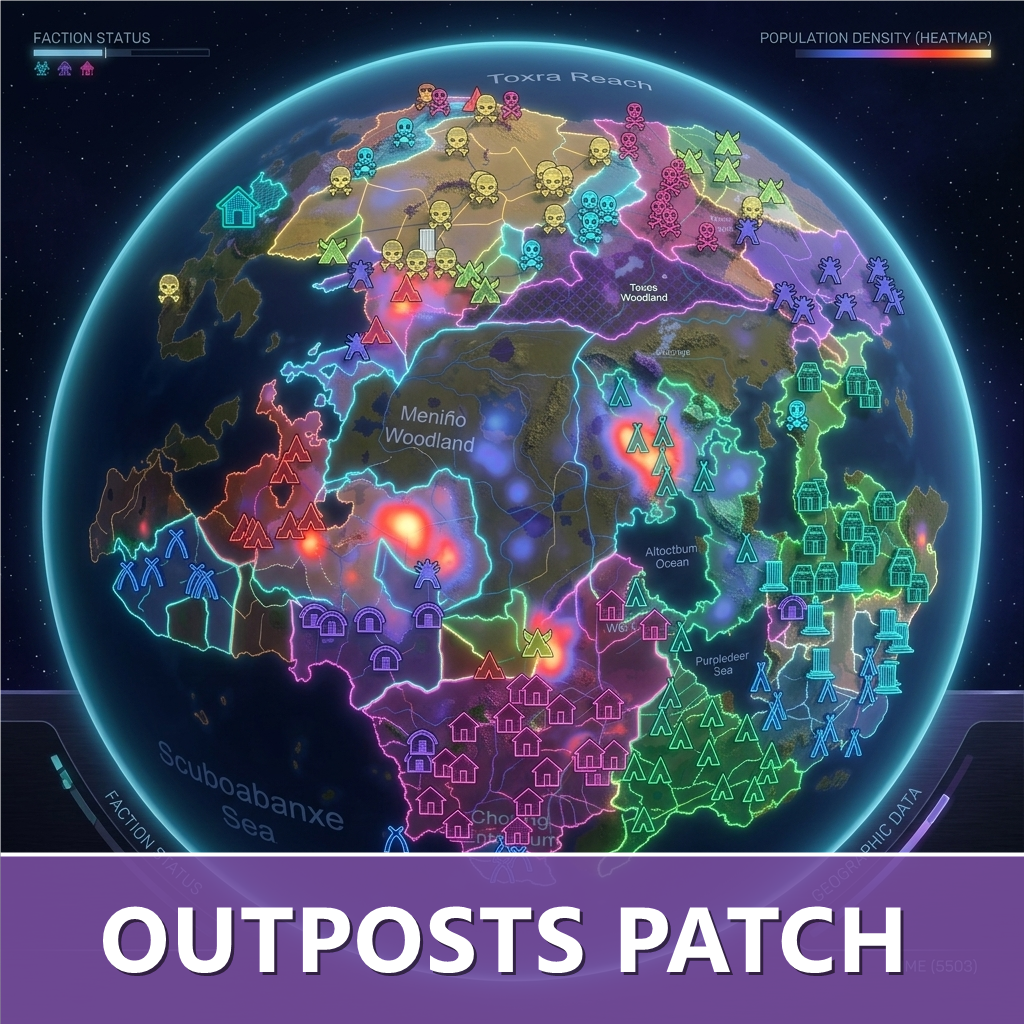
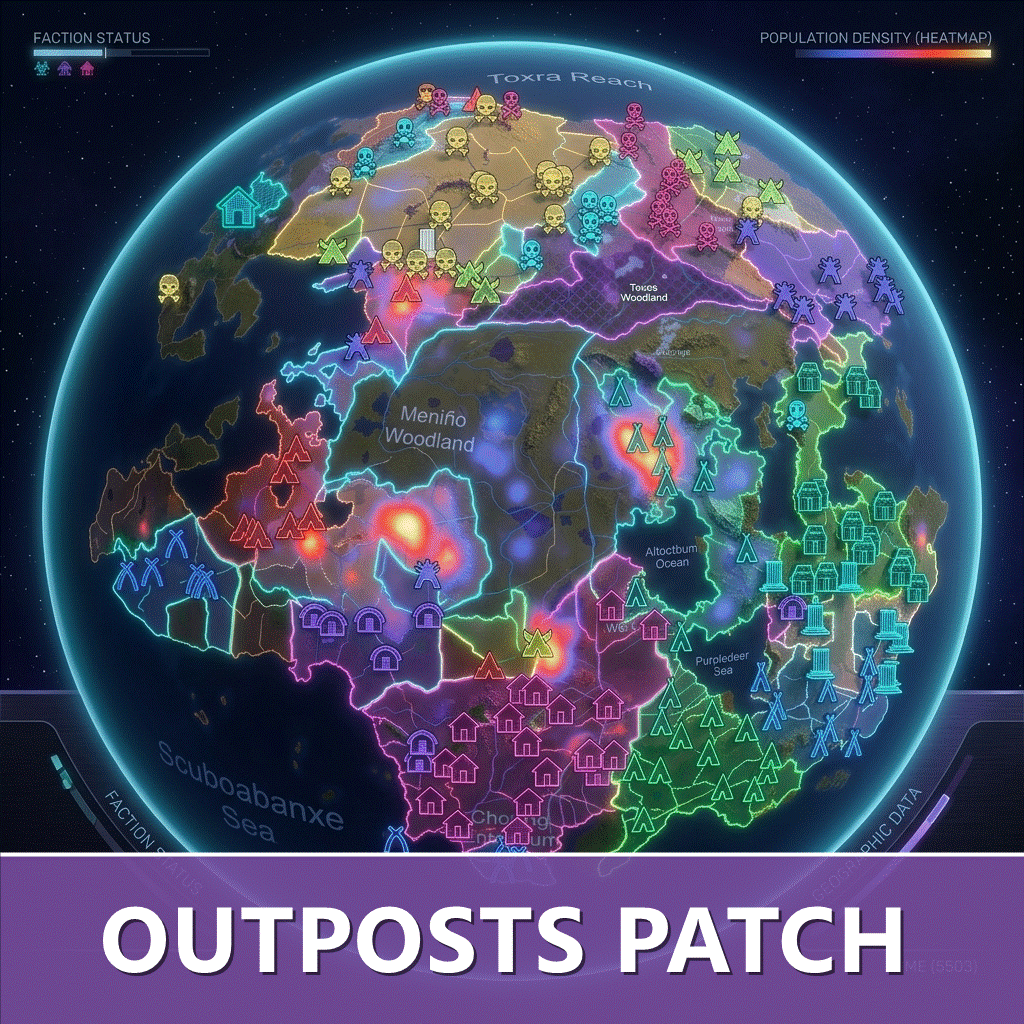
Post-mint housekeeping and wiki source: Workshop id 3784875379, Core dependency workshop URL, compressed preview, Learning guides

diff --git a/Learning/Developers_Guide.md b/Learning/Developers_Guide.md
@@ -1,0 +1,94 @@
+# Developer's Guide
+
+How the Outposts Expanded patch is built, and the surfaces it exposes. This patch is primarily a **consumer** of the core extension points documented in the [core Developer's Guide](https://github.com/Regions-and-societies/Core-MMF/wiki/Developers_Guide) — it is also the reference implementation of a typed companion patch, so its three pieces are documented here the same way.
+
+The assembly is `RegionsAndSocieties.VOECP`, namespace `RegionsAndSocieties.VOECP`. It references the `Outposts` assembly directly (under RimWorld 1.6 that assembly ships inside the Vanilla Expanded Framework; VOE supplies the concrete outposts and defs), so every binding is a compile-time fact rather than a reflection lookup.
+
+Contents:
+
+- [Mod entry and wiring](#mod-entry-and-wiring)
+- [VoeAdapter — the read side](#voeadapter--the-read-side)
+- [VoeOutpostCreator — the write side](#voeoutpostcreator--the-write-side)
+- [Placement-gate Harmony patch](#placement-gate-harmony-patch)
+- [Debug action](#debug-action)
+
+---
+
+## Mod entry and wiring
+
+`VOECPMod`'s constructor is the entire integration:
+
+```csharp
+var harmony = new Harmony("regionsandsocieties.voecp");
+harmony.PatchAll();
+
+WorldObjectAdapterRegistry.Register(new VoeAdapter());
+HoldingCreatorRegistry.Register(new VoeOutpostCreator());
+```
+
+The patch loads after core (declared `loadAfter`), so both registries are live when registration runs. Startup logs one line: `[RegionsAndSocieties.VOECP] Registered the Vanilla Outposts Expanded adapter and outpost creator (priority 110).`
+
+## VoeAdapter — the read side
+
+`public class VoeAdapter : WorldObjectAdapterBase` — teaches core to *read* VOE outposts.
+
+| Member | Value / behaviour |
+|---|---|
+| `AdapterId` | `"voe"` |
+| `DisplayName` | `"Vanilla Outposts Expanded"` |
+| `Priority` | `110` (between Empire at 100 and VFE at 120 — the slot core's old reflection profile held) |
+| `IsActive` | `ModsConfig.IsActive("vanillaexpanded.outposts")`, evaluated once |
+
+### TryClassify
+
+```csharp
+public override bool TryClassify(WorldObject obj, out WorldObjectKind kind)
+```
+
+Returns `WorldObjectKind.Outpost` for any `Outposts.Outpost` subclass (covers every concrete VOE outpost), with a namespace fallback (`Namespace == "Outposts"`) preserving the old reflection profile's behaviour for any future non-`Outpost` type the mod introduces.
+
+### TryGetPopulation
+
+```csharp
+public override bool TryGetPopulation(WorldObject obj, out int population)
+```
+
+Reports `Outpost.PawnCount` — the real occupant count — so VOE outposts weigh into ownership and demographics instead of reading zero. Returns `false` for anything that is not an `Outposts.Outpost`.
+
+## VoeOutpostCreator — the write side
+
+`public class VoeOutpostCreator : IHoldingCreator` — teaches core to *build* VOE outposts during worldgen seeding.
+
+| Member | Value / behaviour |
+|---|---|
+| `CreatorId` | `"voe"` |
+| `Priority` | `110` (matches the adapter, so read and write sides act as one integration) |
+| `IsActive` | Core's `WorldObjectIntegrationSettings.masterEnabled` — installed means enabled |
+| `CanCreate` | `kind == WorldObjectKind.Outpost` |
+
+### TryCreate
+
+```csharp
+public bool TryCreate(WorldObjectKind kind, OutpostArchetype archetype,
+                      Faction faction, int tile, out WorldObject created)
+```
+
+The creation recipe, established against the decompiled 1.6 `Outposts.dll`:
+
+1. **Resolve the def** from the archetype: `Outpost_Mining` / `Outpost_Logging` / `Outpost_Farming` / `Outpost_Hunting`, falling back to the constraint-free `Outpost_Encampment`, then to *any* `WorldObjectDef` whose class derives from `Outposts.Outpost` — a renamed or reduced VOE def set degrades gracefully instead of failing hard.
+2. `WorldObjectMaker.MakeWorldObject(def)` → set `Tile` → `SetFaction(faction)` (must be non-null or VOE's world-map material getter throws) → set the public `Name` field (generated from the faction's own `settlementNameMaker`, falling back to `"<faction> outpost"`) → `Find.WorldObjects.Add`.
+3. **Attach one occupant** via the outpost's public `AddPawn(Pawn)` — a generated pawn of the faction's `basicMemberKind`. This is not optional: a VOE outpost that ends a tick with no occupants deletes itself. If `AddPawn` fails, the outpost is destroyed cleanly and `TryCreate` returns `false`.
+
+VOE's own `CanSpawnOnWithExt` is deliberately **not** consulted during seeding: it validates a would-be caravan's pawn skills and headcount, not the tile, and would reject every seeding for having no caravan. Archetype selection already matches terrain.
+
+Every failure path logs an `ErrorOnce` with a distinct key (`0x5B0101`–`0x5B0105`) and returns `false`, so core falls through to other creators or skips the site.
+
+## Placement-gate Harmony patch
+
+`Patch_Outposts_CanSpawnOn` — a postfix on `Outposts.Utils.CanSpawnOnWithExt`. When core's `OutpostPlacementUtility.CanPlaceOutpostAt` refuses a tile for the player faction, the postfix writes core's reason string into VOE's result, so VOE's own establishment UI shows the refusal verbatim. If the VOE build lacks that method, `Prepare()` logs a warning and the patch is skipped rather than failing the load.
+
+**Maintenance note:** the postfix's third parameter must be named `ps`, not `pawns` — Harmony binds injected parameters *by name* against the original signature, and VOE names it `ps`. The mismatch only manifests with VOE actually installed (`Parameter "pawns" not found`). Do not "tidy" the name.
+
+## Debug action
+
+Dev mode → Debug actions → *Regions and Societies* → **R&S VOE-CP: world-object dump**: logs every `Outposts.Outpost` on the world map with its resolved kind, population, tile and faction — including any foreign object that resolves through this adapter — so the classification path is observable in a running game.

diff --git a/Learning/Players_Guide.md b/Learning/Players_Guide.md
@@ -1,0 +1,35 @@
+# Player's Guide
+
+What the Outposts Expanded patch does in your game, mechanic by mechanic. For the code side, see the [Developer's Guide](Developers_Guide). Everything below assumes both [Regions and Societies](https://steamcommunity.com/sharedfiles/filedetails/?id=3784666060) and [Vanilla Outposts Expanded](https://steamcommunity.com/sharedfiles/filedetails/?id=2688941031) are installed alongside this patch.
+
+---
+
+## Outposts count toward territory
+
+With the patch installed, every Vanilla Outposts Expanded outpost on the world map — yours and the AI's — is recognised by Regions and Societies as an **outpost** under its territory rules. Each one reports its real occupant count as population, so a staffed mining outpost genuinely weighs into who holds a province, its demographics, and the ownership ladder, instead of counting for nothing. Empty or fuller, the numbers you see in the region readouts track the pawns actually stationed there.
+
+## Placement respects regional ownership
+
+When you send a caravan to establish a VOE outpost, the tile now has to pass Regions and Societies' placement rules as well as VOE's own checks. If territory governance refuses the tile — for example, the ground is held too firmly by another faction — VOE's establishment interface shows the refusal with the same reason text Regions and Societies gives elsewhere, so you know *why* the spot is off-limits, not just that it is.
+
+This gate only ever adds refusals with a stated reason; everywhere Regions and Societies allows, VOE behaves exactly as it always did.
+
+## World generation seeds real outposts
+
+On a newly generated world, AI factions receive VOE outposts seeded around their settlements, up to each territory's tier-based allowance (a core mechanic — see the core [Player's Guide](https://github.com/Regions-and-societies/Core-MMF/wiki/Players_Guide)). The patch is what makes those outposts *real* VOE outposts:
+
+- **The type fits the terrain** — mining in hills, logging in forest, farming and hunting where those make sense, with a plain encampment as the fallback.
+- **The name fits the faction** — generated by the faction's own settlement name-maker.
+- **They are staffed** — each seeded outpost starts with a generated member of its faction, so it is a living site, not an empty marker.
+
+Without this patch, core cannot build VOE outposts and a generated world carries only settlements.
+
+## No settings of its own
+
+Installed means enabled. All governance toggles — including the master switch that turns seeding and territory rules off at once — live in the **Regions and Societies** mod settings, not here.
+
+## Troubleshooting
+
+- On a healthy load the log shows one startup line: `[RegionsAndSocieties.VOECP] Registered the Vanilla Outposts Expanded adapter and outpost creator (priority 110).`
+- If your VOE version lacks the establishment check this patch hooks, you'll see a one-line warning and the placement gate is skipped — everything else keeps working.
+- In dev mode, the debug action **R&S VOE-CP: world-object dump** (under *Regions and Societies*) lists every VOE outpost with its classification, population and owner, which is the quickest way to confirm the patch is doing its job.

diff --git a/Learning/Home.md b/Learning/Home.md
@@ -1,0 +1,18 @@
+# Regions and Societies: Outposts Expanded Patch
+
+Welcome to the documentation for the **Vanilla Outposts Expanded compatibility patch** for [Regions and Societies](https://github.com/Regions-and-societies/Core-MMF). This is a companion patch mod (`RegionsAndSocieties.VOECP`): install it alongside Regions and Societies and Vanilla Outposts Expanded, and VOE outposts are classified, populated and owned under territory rules; world generation seeds VOE outposts around settlements; and outpost placement respects regional ownership.
+
+## Table of Contents
+
+- [Player's Guide](Players_Guide) — what the patch does in your game
+- [Developer's Guide](Developers_Guide) — the patch's structure and the core API it binds
+
+---
+
+## Before you start
+
+- **Requires both parents.** [Regions and Societies](https://steamcommunity.com/sharedfiles/filedetails/?id=3784666060) and [Vanilla Outposts Expanded](https://steamcommunity.com/sharedfiles/filedetails/?id=2688941031) must both be installed; the patch loads after both.
+- **Installed means enabled.** The patch has no settings of its own. The only relevant toggle is core's master governance switch, which lives in the Regions and Societies settings.
+- **Load order** is declared in About.xml: after Regions and Societies core, the Vanilla Expanded Framework and Vanilla Outposts Expanded. RimSort/RimPy and the game's own sorter handle it automatically.
+
+Source: [Regions-and-societies/VOE-CP](https://github.com/Regions-and-societies/VOE-CP) · Licence: PolyForm Noncommercial 1.0.0 · Support development: [ko-fi.com/archdukejim](https://ko-fi.com/archdukejim)
